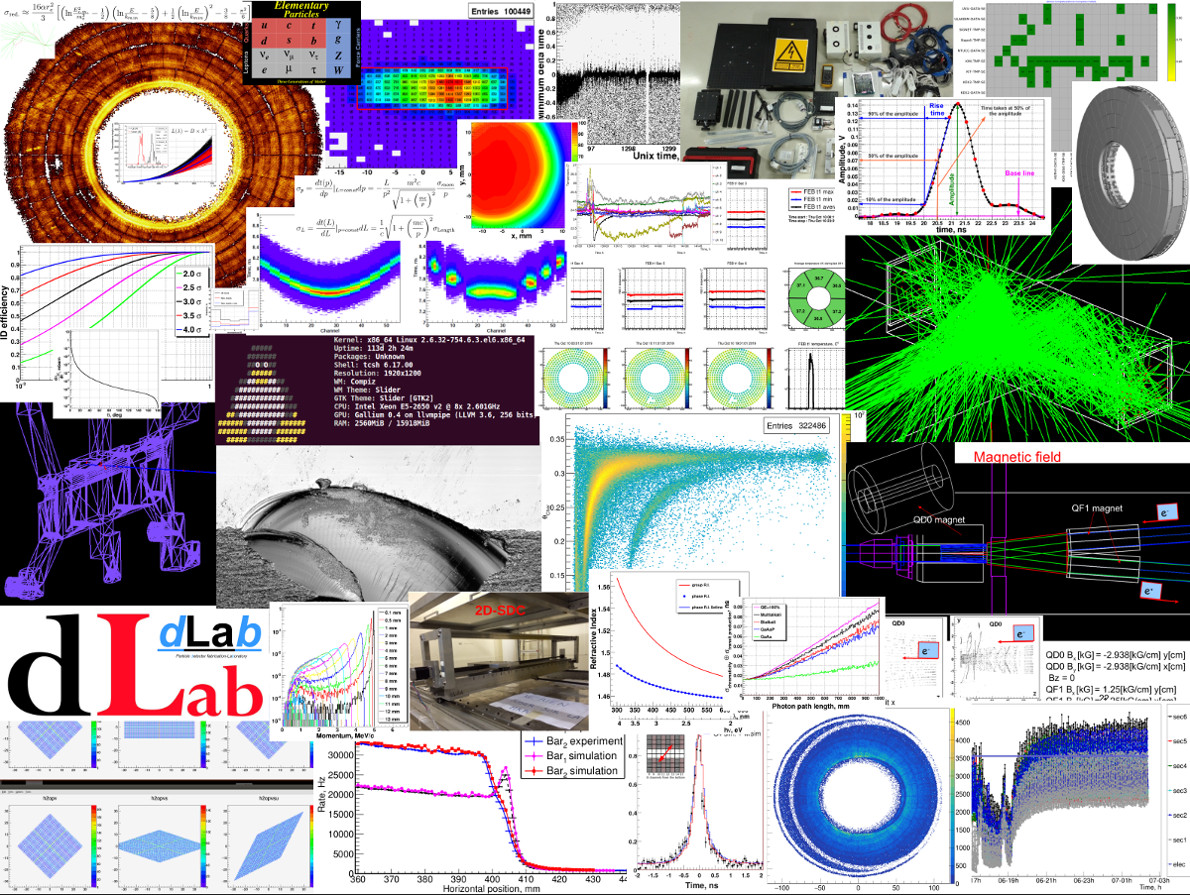
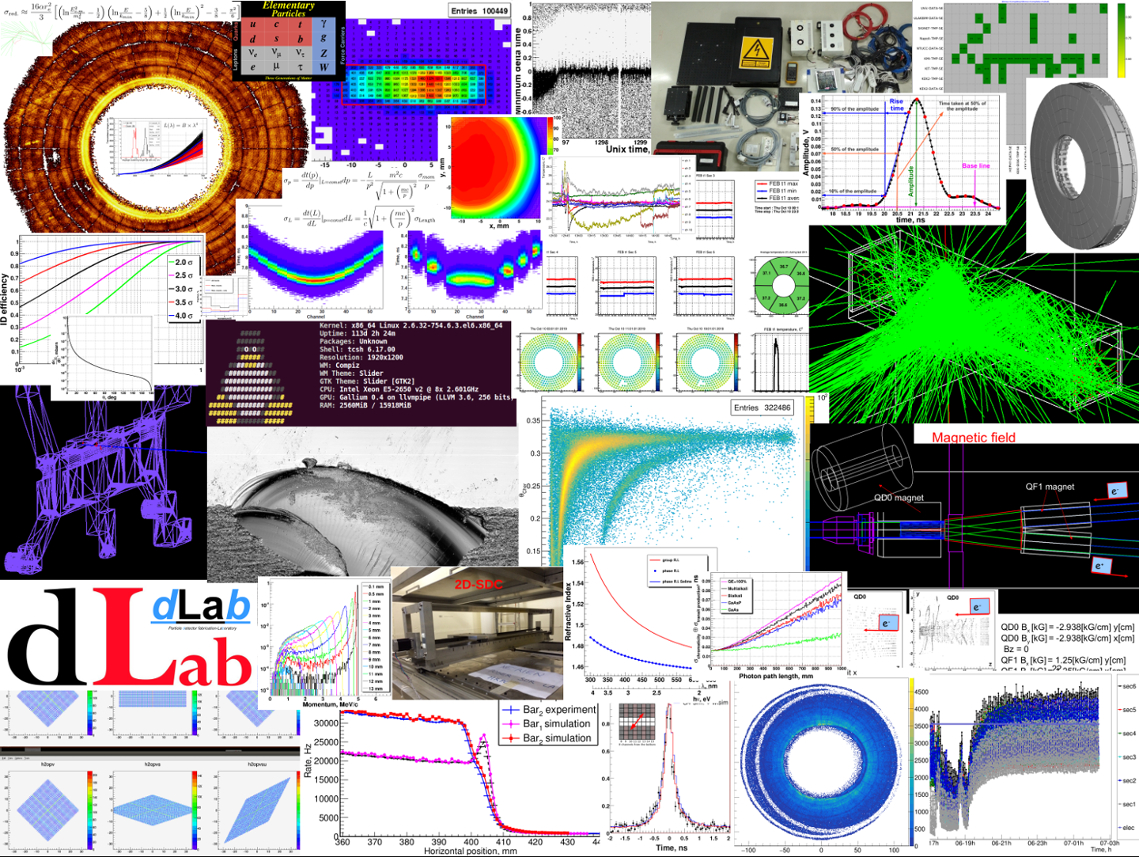
make images/work-1200px.png px=1139

diff --git a/css/styles.css b/css/styles.css
@@ -222,7 +222,7 @@ h3.menu-item-title {
 @media (min-width: 1200px) {
   .container .jumbotron {
     background: url('../images/work-1200px.png') no-repeat;
-    height:899px;
+    height:857px;
   }
 }
 
